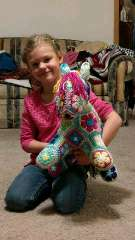
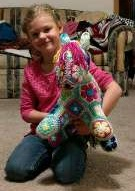
added photos to portfolio page

diff --git a/portfolio.html b/portfolio.html
@@ -41,29 +41,31 @@
                 <h2 class="heading">Portfolio</h2>
             </div>
         </div>
-
+<!-- Row 1 Photos -->
         <div class="row">
             <div class="col-md-6">
-                <!-- add image tag -->
+              <img src="./assets/Truck.jpg" alt="New Oragne Ranger">
             </div>
             <div class="col-md-6">
-
+              <img src="./assets/LottieNewToy.jpg" alt="Old Red Ranger with Lottie">
             </div>
         </div>
+<!-- Row 2 Photos -->        
         <div class="row">
             <div class="col-md-6">
-
+              <img src="./assets/myFamily.jpg" alt="Family Lottie Clarissa Tanna">
             </div>
             <div class="col-md-6">
-
+              <img src="./assets/Lottie_Crazy.jpg" alt="Old Red Ranger with Lottie">
             </div>
         </div>
+<!-- Row 3 Photos -->
         <div class="row">
             <div class="col-md-6">
-
+              <img src="./assets/ChloeHorse.jpg" alt="Croched Rainbow Horse">
             </div>
             <div class="col-md-6">
-
+              <img src="./assets/SockMonkeyHat.jpg" alt="Sock Monkey Hat">
             </div>
         </div>
 

diff --git a/assets/style.css b/assets/style.css
@@ -23,10 +23,11 @@ body {
 
 }
 
-/* .ourownclass {
-    max-height: 300px;
-    max-width: 300px;
-} */
+img {
+    max-width: 75%;
+    max-height: auto;
+    padding: 5%
+}
 
 footer {
     width: 100%;
